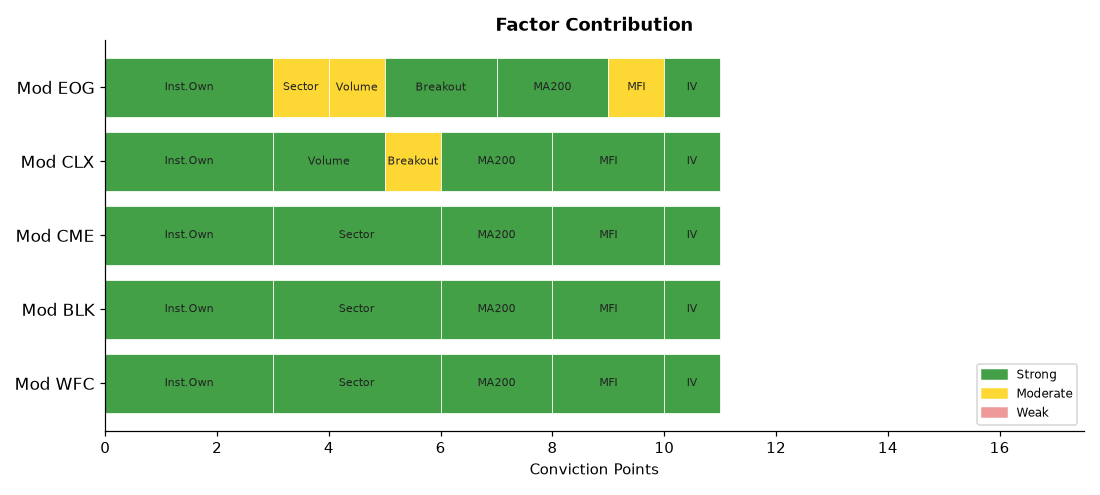
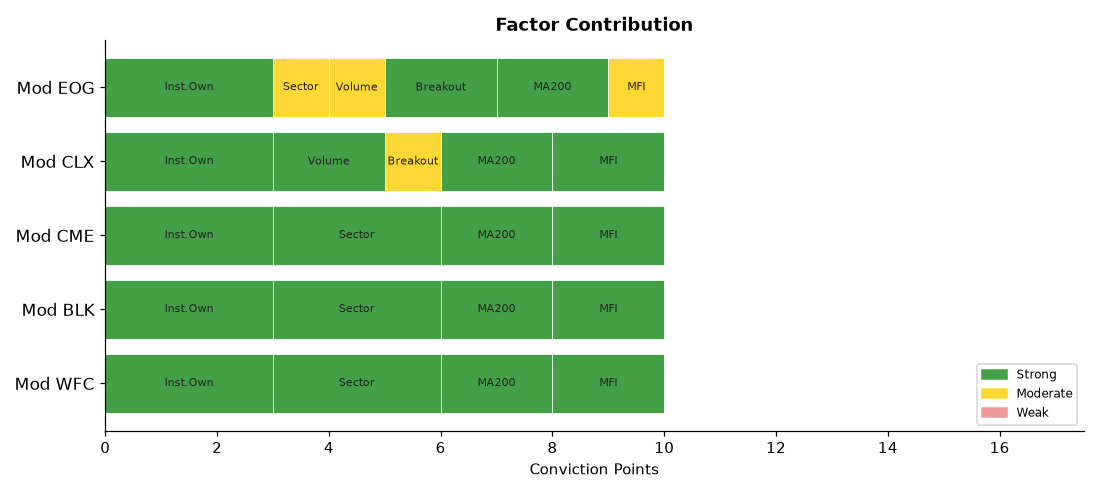
deploy: b7fadf5b06deb90e7ebb92f278722414bdd9750d

Changed region(s): [[0.5873, 0.1212, 0.68, 0.8485]]

diff --git a/index.html b/index.html
@@ -4,7 +4,7 @@
   <meta charset="UTF-8">
   <meta name="viewport" content="width=device-width,initial-scale=1">
   <meta http-equiv="Cache-Control" content="no-cache,no-store,must-revalidate">
-  <title>Stock Breakout Screener — 2026-11-11 01:39</title>
+  <title>Stock Breakout Screener — 2026-11-11 05:31</title>
   <style>
     *{box-sizing:border-box;margin:0;padding:0}
     body{font-family:'Segoe UI',Arial,sans-serif;background:#f0f2f5;
@@ -34,7 +34,7 @@
 
 <div class="hdr">
   <h1>📈 Stock Breakout Screener</h1>
-  <p>Updated: 2026-11-11 01:39 UTC &nbsp;·&nbsp; Phase: Overnight &nbsp;·&nbsp;
+  <p>Updated: 2026-11-11 05:31 UTC &nbsp;·&nbsp; Phase: Pre-Market (before 9:30 AM ET) &nbsp;·&nbsp;
      129 stocks screened &nbsp;·&nbsp; Top 5 by conviction score</p>
 </div>
 
@@ -65,7 +65,7 @@
             <span style="margin-left:auto;background:#1a237e;color:#fff;
                          padding:3px 12px;border-radius:12px;
                          font-size:13px;font-weight:600">
-              11/17
+              10/17
             </span>
           </div>
           <ul style="margin:0;padding-left:18px;font-size:13px;
@@ -82,7 +82,7 @@
             <span style="margin-left:auto;background:#1a237e;color:#fff;
                          padding:3px 12px;border-radius:12px;
                          font-size:13px;font-weight:600">
-              11/17
+              10/17
             </span>
           </div>
           <ul style="margin:0;padding-left:18px;font-size:13px;
@@ -99,7 +99,7 @@
             <span style="margin-left:auto;background:#1a237e;color:#fff;
                          padding:3px 12px;border-radius:12px;
                          font-size:13px;font-weight:600">
-              11/17
+              10/17
             </span>
           </div>
           <ul style="margin:0;padding-left:18px;font-size:13px;
@@ -116,7 +116,7 @@
             <span style="margin-left:auto;background:#1a237e;color:#fff;
                          padding:3px 12px;border-radius:12px;
                          font-size:13px;font-weight:600">
-              11/17
+              10/17
             </span>
           </div>
           <ul style="margin:0;padding-left:18px;font-size:13px;
@@ -133,7 +133,7 @@
             <span style="margin-left:auto;background:#1a237e;color:#fff;
                          padding:3px 12px;border-radius:12px;
                          font-size:13px;font-weight:600">
-              11/17
+              10/17
             </span>
           </div>
           <ul style="margin:0;padding-left:18px;font-size:13px;
@@ -178,11 +178,11 @@
           <td style="background:#c8e6c9">
             68.6</td>
           <td style="background:#c8e6c9">Financials</td>
-          <td style="background:#c8e6c9">
-            78.8%</td>
+          <td style="background:#ffcdd2">
+            10.6%</td>
           <td style="background:#ffcdd2">
             N/A</td>
-          <td style="font-weight:800;font-size:15px">11/17</td>
+          <td style="font-weight:800;font-size:15px">10/17</td>
         </tr>
         <tr>
           <td style="font-weight:700;text-align:left;padding-left:10px">
@@ -196,11 +196,11 @@
           <td style="background:#c8e6c9">
             62.8</td>
           <td style="background:#c8e6c9">Financials</td>
-          <td style="background:#c8e6c9">
-            55.4%</td>
+          <td style="background:#ffcdd2">
+            3.2%</td>
           <td style="background:#ffcdd2">
             N/A</td>
-          <td style="font-weight:800;font-size:15px">11/17</td>
+          <td style="font-weight:800;font-size:15px">10/17</td>
         </tr>
         <tr>
           <td style="font-weight:700;text-align:left;padding-left:10px">
@@ -214,11 +214,11 @@
           <td style="background:#c8e6c9">
             70.5</td>
           <td style="background:#c8e6c9">Financials</td>
-          <td style="background:#c8e6c9">
-            64.2%</td>
+          <td style="background:#ffcdd2">
+            5.9%</td>
           <td style="background:#ffcdd2">
             N/A</td>
-          <td style="font-weight:800;font-size:15px">11/17</td>
+          <td style="font-weight:800;font-size:15px">10/17</td>
         </tr>
         <tr>
           <td style="font-weight:700;text-align:left;padding-left:10px">
@@ -232,11 +232,11 @@
           <td style="background:#c8e6c9">
             87.1</td>
           <td style="background:#ffcdd2">Consumer Stpl</td>
-          <td style="background:#c8e6c9">
-            118.7%</td>
+          <td style="background:#ffcdd2">
+            5.1%</td>
           <td style="background:#ffcdd2">
             N/A</td>
-          <td style="font-weight:800;font-size:15px">11/17</td>
+          <td style="font-weight:800;font-size:15px">10/17</td>
         </tr>
         <tr>
           <td style="font-weight:700;text-align:left;padding-left:10px">
@@ -250,11 +250,11 @@
           <td style="background:#fff9c4">
             52.2</td>
           <td style="background:#fff9c4">Energy</td>
-          <td style="background:#c8e6c9">
-            78.6%</td>
+          <td style="background:#ffcdd2">
+            11.8%</td>
           <td style="background:#ffcdd2">
             N/A</td>
-          <td style="font-weight:800;font-size:15px">11/17</td>
+          <td style="font-weight:800;font-size:15px">10/17</td>
         </tr>
 </table>
 </div>
@@ -287,48 +287,48 @@
         </tr>
         <tr>
           <td style="text-align:left;padding-left:10px;font-weight:600">
-            #3 Healthcare</td>
+            #3 Comm. Services</td>
+          <td style="background:#e8f5e9;color:#2e7d32;font-weight:700">+0.37%</td>
+        </tr>
+        <tr>
+          <td style="text-align:left;padding-left:10px;font-weight:600">
+            #4 Healthcare</td>
           <td style="background:#e8f5e9;color:#2e7d32;font-weight:700">+0.29%</td>
         </tr>
         <tr>
           <td style="text-align:left;padding-left:10px;font-weight:600">
-            #4 Consumer Stpl</td>
+            #5 Consumer Stpl</td>
           <td style="background:#e8f5e9;color:#2e7d32;font-weight:700">+0.15%</td>
         </tr>
         <tr>
           <td style="text-align:left;padding-left:10px;font-weight:600">
-            #5 Consumer Disc</td>
+            #6 Consumer Disc</td>
           <td style="background:#e8f5e9;color:#2e7d32;font-weight:700">+0.03%</td>
         </tr>
         <tr>
           <td style="text-align:left;padding-left:10px;font-weight:600">
-            #6 Industrials</td>
+            #7 Industrials</td>
           <td style="background:#ffebee;color:#c62828;font-weight:700">-0.09%</td>
         </tr>
         <tr>
           <td style="text-align:left;padding-left:10px;font-weight:600">
-            #7 Materials</td>
-          <td style="background:#ffebee;color:#c62828;font-weight:700">-0.17%</td>
+            #8 Real Estate</td>
+          <td style="background:#ffebee;color:#c62828;font-weight:700">-0.13%</td>
         </tr>
         <tr>
           <td style="text-align:left;padding-left:10px;font-weight:600">
-            #8 Technology</td>
-          <td style="background:#ffebee;color:#c62828;font-weight:700">-1.15%</td>
-        </tr>
-        <tr>
-          <td style="text-align:left;padding-left:10px;font-weight:600">
-            #9 Real Estate</td>
-          <td style="background:#ffebee;color:#c62828;font-weight:700">+nan%</td>
-        </tr>
-        <tr>
-          <td style="text-align:left;padding-left:10px;font-weight:600">
-            #10 Utilities</td>
+            #9 Utilities</td>
           <td style="background:#ffebee;color:#c62828;font-weight:700">-0.14%</td>
         </tr>
         <tr>
           <td style="text-align:left;padding-left:10px;font-weight:600">
-            #11 Comm. Services</td>
-          <td style="background:#ffebee;color:#c62828;font-weight:700">+nan%</td>
+            #10 Materials</td>
+          <td style="background:#ffebee;color:#c62828;font-weight:700">-0.17%</td>
+        </tr>
+        <tr>
+          <td style="text-align:left;padding-left:10px;font-weight:600">
+            #11 Technology</td>
+          <td style="background:#ffebee;color:#c62828;font-weight:700">-1.15%</td>
         </tr>
     </table>
   </div>
@@ -367,7 +367,7 @@
         <li><b>Scoring weights:</b>
             Inst.Own(3) · Sector(3) · Volume(2) · Breakout(2) ·
             MA200(2) · MFI(2) · History(2) · IV(1) = 17pts max</li>
-        <li><b>Run time:</b> 2026-11-11 01:39 UTC — Market phase: Overnight</li>
+        <li><b>Run time:</b> 2026-11-11 05:31 UTC — Market phase: Pre-Market (before 9:30 AM ET)</li>
       </ul>
     </div>
 
